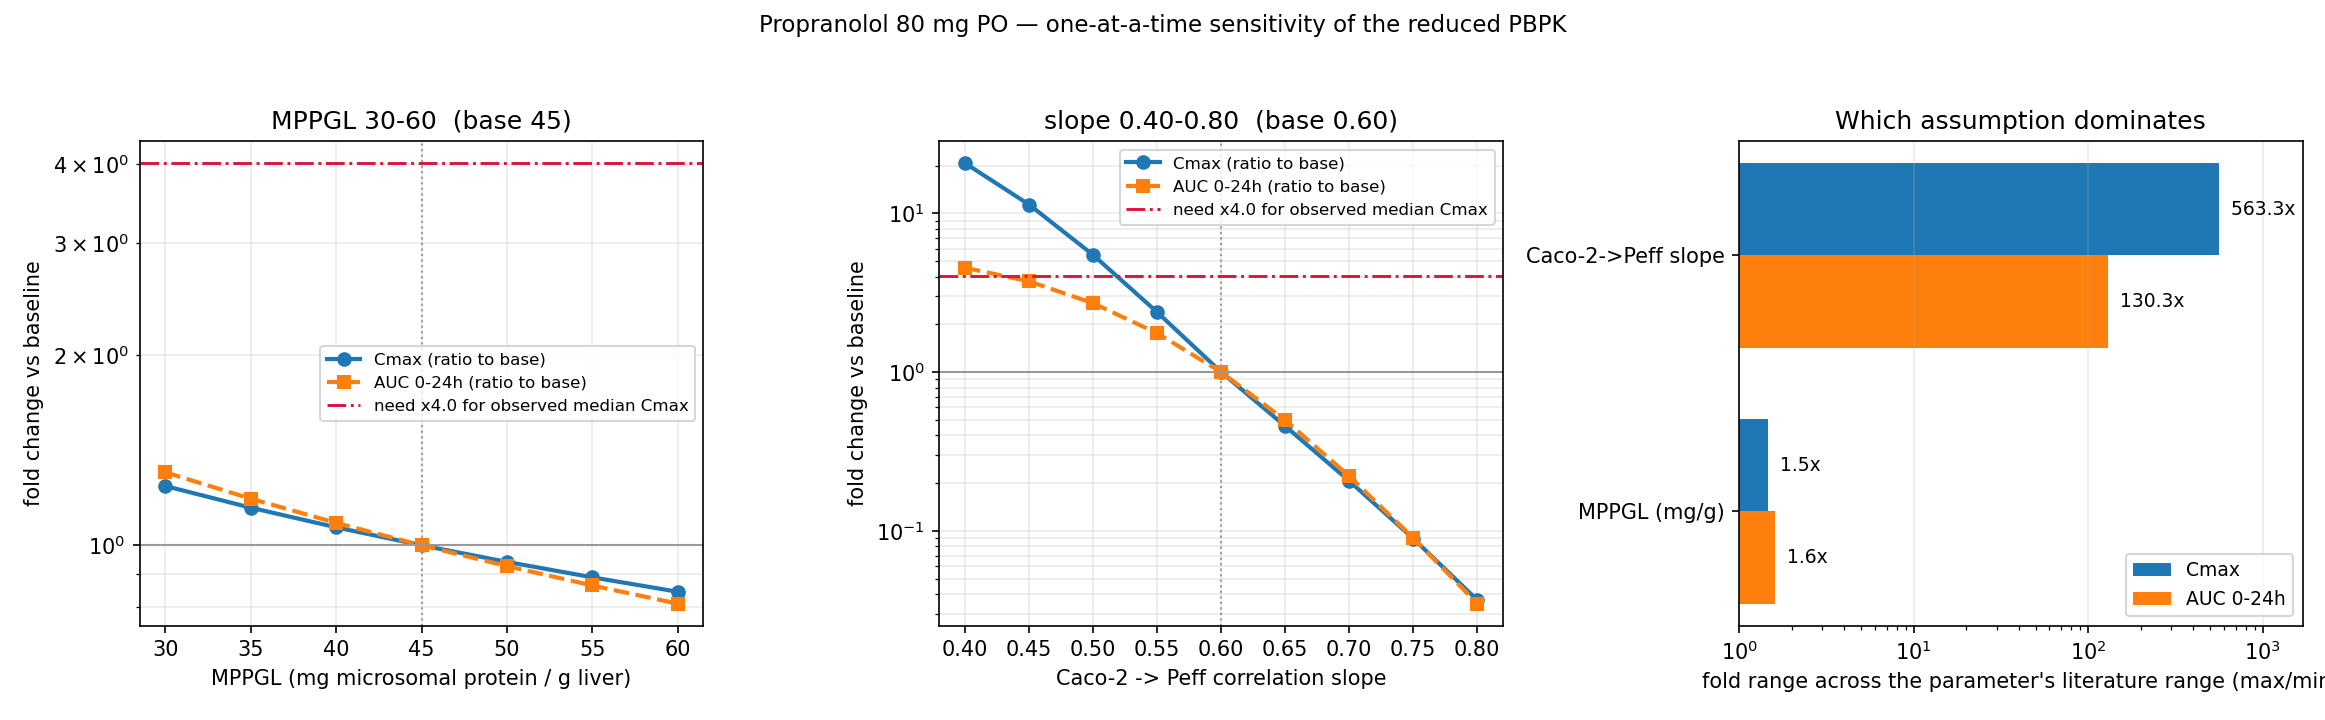
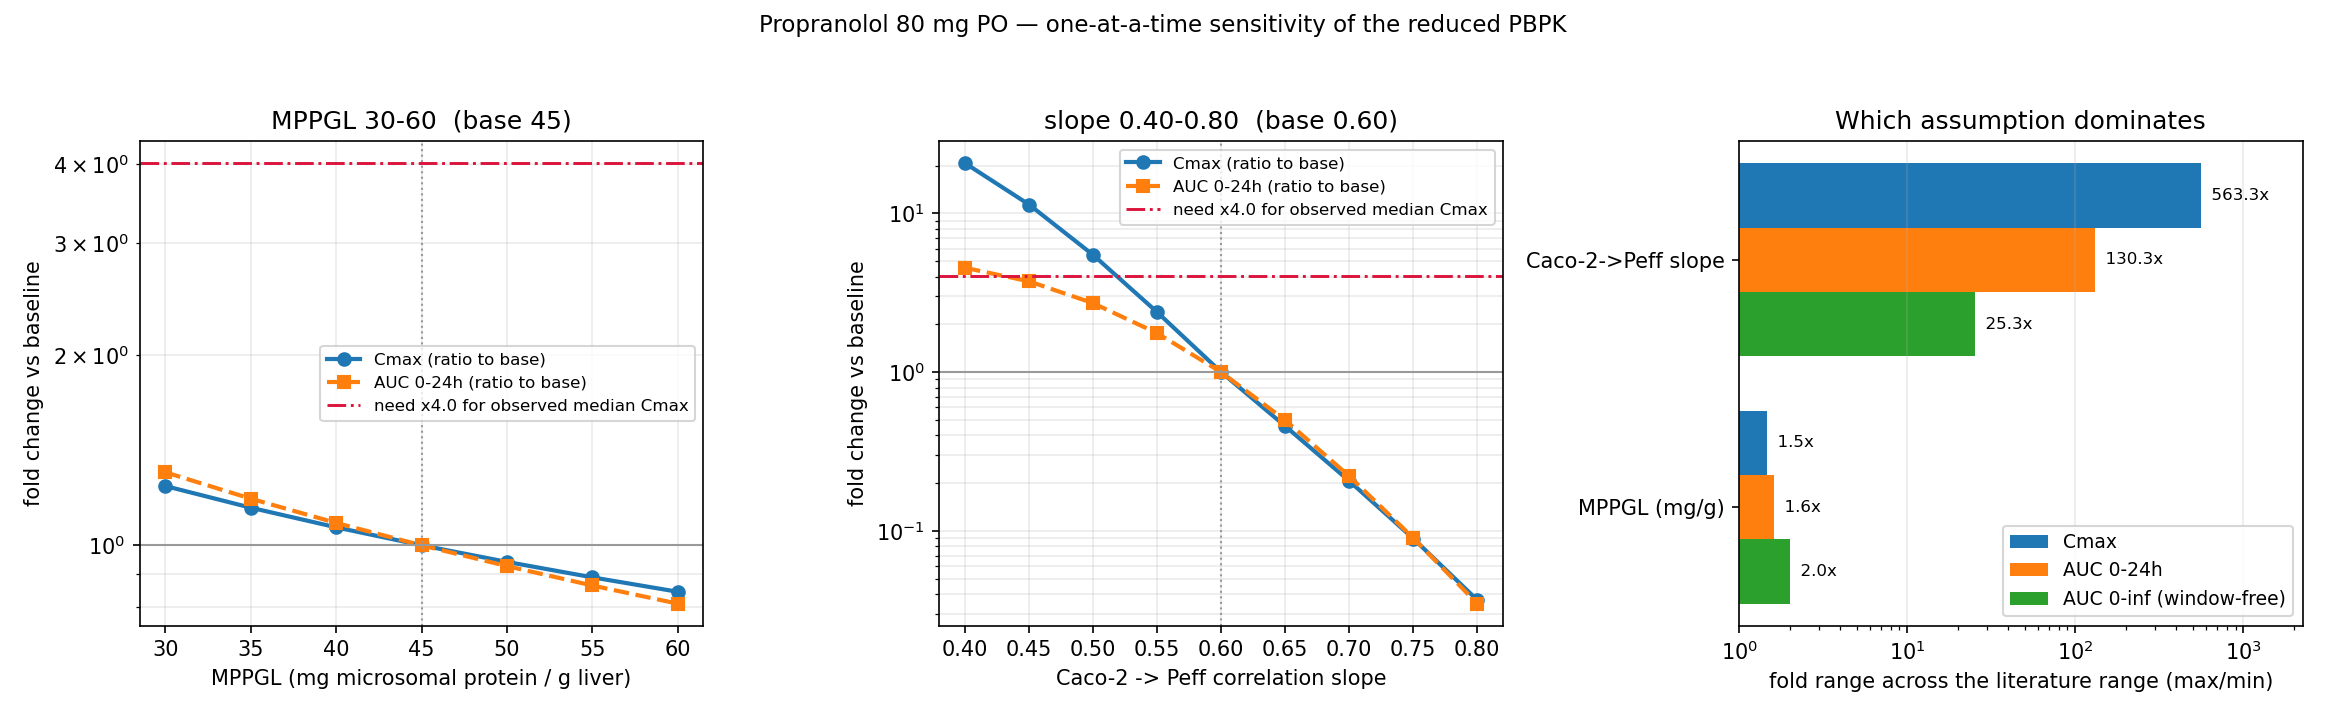
3주차 정정의 근거를 그림에 드러내고, 앞선 문서 정리에서 놓친 한 줄 제거
경구 두 패널만으로는 "보정이 고친 것은 흡수뿐"이라는 정정 결론이 보이지
않았다. 보정 곡선이 점 위를 지나가니 소실도 맞는 것처럼 읽힌다. 흡수
가정이 들어가지 않는 IV를 용량으로 정규화해 세 번째 패널로 겹쳤다(모델이
선형이라 정규화가 정확하다). 4시간 이후 관측 점이 모델 선 아래로 내려가고
14시간에는 5배쯤 벌어진다. 축은 소실상에 맞춰 잘랐다. 주입 직후의 봉우리는
채혈 시점에 따라 들쭉날쭉해서 비교 대상이 아니다.

민감도 토네이도에 AUC(0-inf) 막대를 추가했다. 0-24h 창은 느린 흡수 쪽을
과장해 기울기 막대가 130배까지 늘어나므로, README가 인용하는 창 무관
기준(2.0배 / 25.3배)이 그림에도 있어야 한다. 어느 기준으로 봐도 지배
관계는 같다. run_sensitivity.py 머리말의 "IV로 소실 쪽은 대체로 맞다고
확인됐으니 남는 건 흡수뿐"이라는 옛 해석도 철회 주석으로 바꿨다. 두 가정이
각각 흡수와 소실 경로에 하나씩 들어간다는 점은 그대로이므로 분석 대상은
바뀌지 않는다.

README에 두 그림을 읽는 방법을 각각 한 단락씩 붙였다.

docs/00_setup_wsl2_cuda.md의 마지막 안내 문장에서 저장소 밖 사정에 관한
부분을 뺐다. 첫 커밋부터 있던 줄인데 앞선 문서 정리 때 검색 패턴에서
빠져 놓쳤다. 공개 저장소로 만든다는 기술적 이유만 남겼다.

results/pbpk_parameters.csv은 재실행에 따른 소수점 15자리째 차이뿐이고
의미 있는 변경은 없다.

확인한 것: py_compile과 pbpk.model/pbpk.observed/src.features/src.stereo
import 통과. pk_propranolol_po.png가 1800px(2패널)에서 2519px(3패널)로
재생성된 것, auc_inf_fold_range 열이 실제로 만들어지는 것.
확인하지 않은 것: run_pbpk.py와 run_sensitivity.py를 처음부터 끝까지 다시
돌려 본문 수치를 재검증하지는 않았다.

diff --git a/scripts/run_pbpk.py b/scripts/run_pbpk.py
@@ -272,8 +272,16 @@ def iv_check(par, df_iv: pd.DataFrame, n_tail: int = 4) -> pd.DataFrame:
 
 
 def plot_curves(par, par_cal, obs: pd.DataFrame, calib_id: str,
-                dose_mg: float, path: Path) -> None:
-    """관측 점 위에 a priori와 보정 곡선을 겹쳐 그린다."""
+                dose_mg: float, path: Path,
+                df_iv: pd.DataFrame | None = None) -> None:
+    """관측 점 위에 a priori와 보정 곡선을 겹쳐 그린다.
+
+    경구 두 패널만으로는 2026-11-24 정정의 결론이 보이지 않는다. 단회
+    80 mg에서 보정 곡선은 점 위를 지나가지만, 그 보정은 흡수 쪽 절편
+    하나만 올린 것이라 소실이 맞다는 뜻이 아니다. 그래서 흡수 가정이
+    들어가지 않는 IV 패널을 같이 그린다. 세 번째 패널에서 **관측 점의
+    기울기가 모델 곡선보다 가파른 것**이 소실이 느리다는 증거다.
+    """
     import matplotlib
     matplotlib.use("Agg")  # 화면 없는 환경에서 그린다
     import matplotlib.pyplot as plt
@@ -283,8 +291,10 @@ def plot_curves(par, par_cal, obs: pd.DataFrame, calib_id: str,
     sim_a = simulate(par, dose_mg, "PO", t_end, n_points=800)
     sim_c = simulate(par_cal, dose_mg, "PO", t_end, n_points=800)
 
-    fig, axes = plt.subplots(1, 2, figsize=(12, 4.6))
-    for ax, logy in zip(axes, (False, True)):
+    has_iv = df_iv is not None and len(df_iv) > 0
+    n_panel = 3 if has_iv else 2
+    fig, axes = plt.subplots(1, n_panel, figsize=(5.6 * n_panel, 4.8))
+    for ax, logy in zip(axes[:2], (False, True)):
         rest = obs[obs["curve_id"] != calib_id]
         cal = obs[obs["curve_id"] == calib_id]
         ax.scatter(rest["time_h"], rest["conc_ug_L"], s=14, alpha=0.45,
@@ -301,14 +311,52 @@ def plot_curves(par, par_cal, obs: pd.DataFrame, calib_id: str,
         if logy:
             ax.set_yscale("log")
             ax.set_ylim(1, None)
-            ax.set_title("log scale")
+            ax.set_title("same data, log scale\n"
+                         "the calibrated tail runs above the points")
         else:
-            ax.set_title(f"Propranolol {dose_mg:.0f} mg PO single dose, healthy adults "
+            ax.set_title(f"{dose_mg:.0f} mg PO single dose, healthy adults\n"
                          f"({obs['curve_id'].nunique()} curves, "
                          f"{obs['study'].nunique()} studies)")
         ax.legend(loc="upper right", fontsize=8)
         ax.grid(alpha=0.25)
-    fig.tight_layout()
+
+    if has_iv:
+        # IV는 곡선마다 용량(1~10 mg)과 주입 시간이 다르다. 모델이 선형이라
+        # 농도를 용량으로 나누면 전부 한 축에 겹쳐 놓고 볼 수 있다. 기울기만
+        # 보는 패널이므로 이 정규화가 비교를 왜곡하지 않는다.
+        ax = axes[2]
+        colors = plt.rcParams["axes.prop_cycle"].by_key()["color"]
+        lo = np.inf
+        for i, (_, d) in enumerate(df_iv.groupby("curve_id", sort=False)):
+            meta = curve_meta(d)
+            q = quantifiable(d)
+            if not len(q):
+                continue
+            dose = float(meta["dose_mg"])
+            c_obs = np.asarray(q["conc_ug_L"], dtype=float) / dose
+            lo = min(lo, c_obs.min())
+            c = colors[i % len(colors)]
+            ax.scatter(q["time_h"], c_obs, s=22, color=c, alpha=0.85, zorder=3,
+                       label=f"{meta['study']} ({dose:.0f} mg)")
+            sim = simulate_curve(par, meta, float(q["time_h"].max()),
+                                 n_points=1200)
+            ax.plot(sim["time_h"], np.asarray(sim["conc_ug_L"]) / dose,
+                    lw=1.4, color="0.35", alpha=0.7, zorder=2,
+                    label="model (a priori)" if i == 0 else None)
+        ax.set_yscale("log")
+        # 주입 직후의 뾰족한 봉우리는 채혈 시점에 따라 들쭉날쭉해서 비교
+        # 대상이 아니다. 축을 소실상에 맞춰 잘라야 **관측이 모델보다
+        # 가파르게 떨어지는 것**이 보인다.
+        ax.set_ylim(lo / 2, 30)
+        ax.set_xlabel("Time (h)")
+        ax.set_ylabel("Plasma concentration / dose (ug/L per mg)")
+        ax.set_title("IV, dose-normalised (a priori)\n"
+                     "observed falls faster than the model")
+        ax.legend(loc="upper right", fontsize=7)
+        ax.grid(alpha=0.25, which="both")
+
+    fig.suptitle("Propranolol — reduced liver+gut PBPK vs observed", fontsize=12)
+    fig.tight_layout(rect=(0, 0, 1, 0.95))
     path.parent.mkdir(parents=True, exist_ok=True)
     fig.savefig(path, dpi=150)
     plt.close(fig)
@@ -485,7 +533,7 @@ def main() -> None:
 
     # --- 8. 그림 -----------------------------------------------------------
     fig_path = Path(args.out).with_name("pk_propranolol_po.png")
-    plot_curves(par, par_cal, obs, calib_id, args.dose_mg, fig_path)
+    plot_curves(par, par_cal, obs, calib_id, args.dose_mg, fig_path, df_iv=iv)
     print(f"\n그림 저장: {fig_path}")
 
     # --- 9. 저장 -----------------------------------------------------------

diff --git a/scripts/run_sensitivity.py b/scripts/run_sensitivity.py
@@ -2,11 +2,15 @@
 
   python scripts/run_sensitivity.py
 
-**왜 이 두 개인가.** 3주차 결과에서 a priori 예측은 Cmax를 5배 가까이
-틀렸고(GMFE 4.97, 2배 안쪽 0%), IV 데이터로 소실 쪽은 대체로 맞다는 것이
-확인됐다. 그러면 남는 질문은 "흡수 쪽 가정 중 **어느 것**이 그 오차를
-만들고 있는가"다. 모델에서 사람이 문헌값으로 정한 수(= 예측값이 아닌 수)
-중 결과를 크게 움직일 수 있는 후보가 둘이다.
+**왜 이 두 개인가.** 3주차 결과에서 a priori 예측은 단회 80 mg Cmax를
+4.5배 틀렸다(GMFE 4.51, 2배 안쪽 0%). 모델에서 사람이 문헌값으로 정한
+수(= 예측값이 아닌 수) 중 그 오차를 만들 수 있는 후보가 둘이다.
+
+(2026-11-24 정정: 예전에는 "IV로 소실 쪽은 대체로 맞다고 확인됐으니
+남는 건 흡수뿐"이라고 적었다. 그 해석은 철회했다. IV의 부분 AUC는
+맞지만 말단 반감기와 청소율은 맞지 않는다. 그래도 이 분석의 대상은
+그대로다. 아래 두 가정은 각각 흡수와 소실 경로에 하나씩 들어가므로,
+둘 중 무엇이 지배하는지는 여전히 답할 수 있는 질문이다.)
 
   MPPGL (간 1g당 미세소체 단백질)   기준 45 mg/g, 문헌 범위 30~60
   Caco-2 -> Peff 상관식 기울기       기준 0.6
@@ -242,25 +246,34 @@ def plot(df_m: pd.DataFrame, df_s: pd.DataFrame, base: dict,
 
     # 토네이도: 각 파라미터의 문헌 범위가 만드는 변동폭
     ax = axes[2]
-    labels, cmax_folds, auc_folds = [], [], []
+    labels, cmax_folds, auc_folds, inf_folds = [], [], [], []
     for _, r in summary.iterrows():
         labels.append(r["parameter"])
         cmax_folds.append(r["cmax_fold_range"])
         auc_folds.append(r["auc_fold_range"])
+        inf_folds.append(r["auc_inf_fold_range"])
     y = np.arange(len(labels))
-    h = 0.36
+    h = 0.26
     # 변동폭은 정의상 1배 이상이므로 막대를 1에서 시작시키고 x축을 로그로
     # 둔다. 선형축이면 1.5배 막대가 563배 옆에서 보이지 않는다.
-    ax.barh(y + h / 2, np.array(cmax_folds) - 1, left=1, height=h, label="Cmax")
-    ax.barh(y - h / 2, np.array(auc_folds) - 1, left=1, height=h, label="AUC 0-24h")
-    for i, (c, a) in enumerate(zip(cmax_folds, auc_folds)):
-        ax.text(c, i + h / 2, f"  {c:.1f}x", va="center", fontsize=9)
-        ax.text(a, i - h / 2, f"  {a:.1f}x", va="center", fontsize=9)
+    #
+    # AUC는 두 기준을 같이 그린다. 0-24h 창은 느린 흡수 쪽을 과장하므로
+    # 기울기 막대가 130배까지 늘어난다. 창 무관 해석해
+    # AUC(0-inf) = Dose x Fa / (fu x CLint)로 보면 25.3배다. README가
+    # 인용하는 수는 창 무관 쪽이므로 그림에도 같이 있어야 한다.
+    ax.barh(y + h, np.array(cmax_folds) - 1, left=1, height=h, label="Cmax")
+    ax.barh(y, np.array(auc_folds) - 1, left=1, height=h, label="AUC 0-24h")
+    ax.barh(y - h, np.array(inf_folds) - 1, left=1, height=h,
+            label="AUC 0-inf (window-free)")
+    for i, (c, a, f) in enumerate(zip(cmax_folds, auc_folds, inf_folds)):
+        ax.text(c, i + h, f"  {c:.1f}x", va="center", fontsize=8)
+        ax.text(a, i, f"  {a:.1f}x", va="center", fontsize=8)
+        ax.text(f, i - h, f"  {f:.1f}x", va="center", fontsize=8)
     ax.set_yticks(y)
     ax.set_yticklabels(labels)
     ax.set_xscale("log")
-    ax.set_xlim(1, max(max(cmax_folds), max(auc_folds)) * 3)
-    ax.set_xlabel("fold range across the parameter's literature range (max/min)")
+    ax.set_xlim(1, max(max(cmax_folds), max(auc_folds)) * 4)
+    ax.set_xlabel("fold range across the literature range (max/min)")
     ax.set_title("Which assumption dominates")
     ax.grid(alpha=0.25, axis="x")
     ax.legend(fontsize=9, loc="lower right")

diff --git a/docs/00_setup_wsl2_cuda.md b/docs/00_setup_wsl2_cuda.md
@@ -86,7 +86,7 @@ git add .
 git commit -m "프로젝트 뼈대: TDC ADMET 세 과제 베이스라인"
 ```
 
-GitHub에 올릴 때는 공개 저장소로 만든다. 지원서에 링크를 넣어야 한다.
+GitHub에 올릴 때는 공개 저장소로 만든다. 링크만으로 코드를 열어볼 수 있어야 한다.
 
 ## 막혔을 때
 
